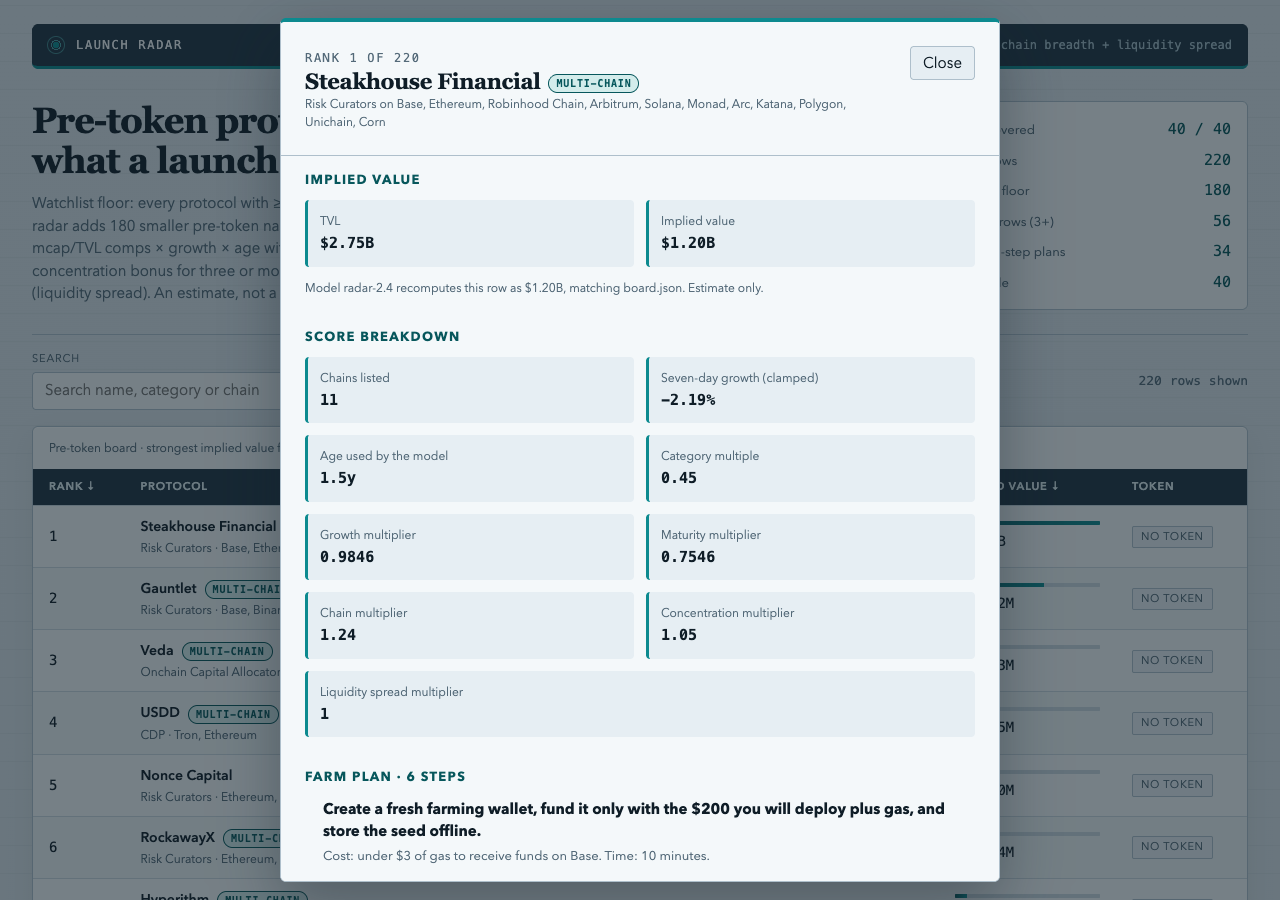
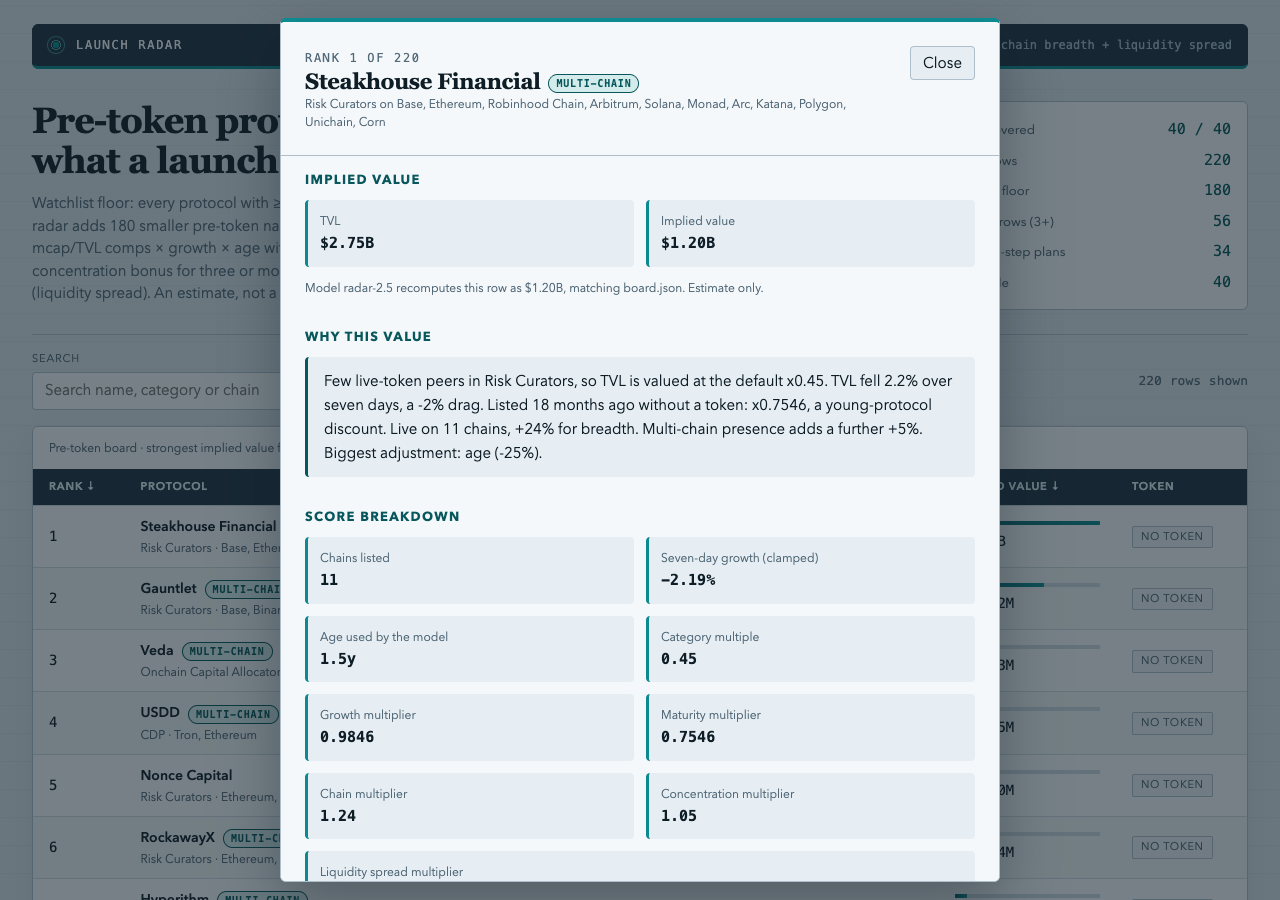
radar-2.5: plain-English score rationales per board row

diff --git a/lib/explain.ts b/lib/explain.ts
@@ -1,0 +1,111 @@
+// Launch Radar rationales (radar-2.5): a scored board row in plain English, from its multipliers only.
+//
+// Every function here is pure (same row in, same text out), takes numbers already on the row, and never
+// recomputes the score: the multipliers come from lib/scoring.ts via the row's `model` block. Each factor
+// helper returns one short sentence, or null when that factor did nothing worth saying. rationale()
+// joins them and names the factor that moved the value most. No network, no clock, no randomness.
+
+import { MODEL } from './scoring.ts';
+
+/** The slice of a board row the explainers read; BoardRow satisfies it structurally. */
+export interface Explainable {
+  category: string | null;
+  chains: string[];
+  change_7d: number | null;
+  age_days: number | null;
+  model: {
+    category_multiple: number;
+    growth_multiplier: number;
+    maturity_multiplier: number;
+    chain_multiplier: number;
+    concentration_multiplier: number;
+    liquidity_spread_multiplier: number;
+  };
+}
+
+/** A multiplier as "x1.05". */
+export const times = (m: number): string => `x${Math.round(m * 1e4) / 1e4}`;
+
+/** How far a multiplier sits from neutral, as a signed percent: 1.05 is "+5%", 0.82 is "-18%". */
+export function shiftPct(m: number): string {
+  const p = Math.round((m - 1) * 100);
+  return `${p > 0 ? '+' : ''}${p}%`;
+}
+
+/** Age in the words a reader uses: "45 days", "14 months", "3.2 years". */
+export function ageWords(days: number): string {
+  if (days >= 730) return `${(days / 365).toFixed(1)} years`;
+  if (days >= 120) return `${Math.round(days / 30)} months`;
+  return `${days} day${days === 1 ? '' : 's'}`;
+}
+
+/** What the category's live-token comps say a dollar of TVL is worth. */
+export function categoryFactor(category: string | null, multiple: number, fallback: number = MODEL.fallback_multiple): string {
+  const label = category ?? 'its category';
+  if (Math.abs(multiple - fallback) < 1e-4) return `Few live-token peers in ${label}, so TVL is valued at the default ${times(multiple)}.`;
+  return `Live ${label} tokens trade at about ${times(multiple)} their TVL, which sets the base value.`;
+}
+
+/** The seven-day TVL change and what it did to the value. */
+export function growthFactor(change7d: number | null, mult: number): string | null {
+  if (change7d === null) return 'No seven-day TVL change on record, so growth is neutral.';
+  const size = `${Math.abs(change7d).toFixed(1)}%`;
+  if (Math.abs(mult - 1) < 0.005) return `TVL is flat over seven days (${change7d.toFixed(1)}%), so growth changes nothing.`;
+  return mult > 1 ? `TVL grew ${size} over seven days, a ${shiftPct(mult)} lift.` : `TVL fell ${size} over seven days, a ${shiftPct(mult)} drag.`;
+}
+
+/** Age without a token: young protocols are discounted, established ones get a premium. */
+export function maturityFactor(ageDays: number | null, mult: number, unknownDays: number = MODEL.unknown_age_days): string {
+  if (ageDays === null) return `Listing date unknown, so it is treated as ${ageWords(unknownDays)} old (${times(mult)}).`;
+  const tone = mult < 1 ? 'a young-protocol discount' : mult > 1 ? 'a premium for staying tokenless this long' : 'neutral';
+  return `Listed ${ageWords(ageDays)} ago without a token: ${times(mult)}, ${tone}.`;
+}
+
+/** Chain breadth: more chains means a wider user base. */
+export function chainFactor(chainCount: number, mult: number): string | null {
+  if (chainCount <= 1) return chainCount === 1 ? 'Single-chain, so no breadth bonus.' : null;
+  return `Live on ${chainCount} chains, ${shiftPct(mult)} for breadth.`;
+}
+
+/** The extra bonus for sitting on enough chains to count as multi-chain. */
+export function concentrationFactor(mult: number): string | null {
+  return mult > 1 ? `Multi-chain presence adds a further ${shiftPct(mult)}.` : null;
+}
+
+/** The small bonus for TVL still growing; silent when it is exactly neutral. */
+export function liquiditySpreadFactor(mult: number): string | null {
+  if (mult <= 1) return null;
+  const capped = Math.abs(mult - (1 + MODEL.liquidity_spread_cap)) < 1e-4;
+  return `Rising TVL signals deepening liquidity: ${shiftPct(mult)}${capped ? ' (the cap)' : ''}.`;
+}
+
+/** The factor that moved the value furthest from neutral, with its direction. Category is the base, so it is not a candidate. */
+export function leadingFactor(row: Explainable): string | null {
+  const m = row.model;
+  const candidates: Array<[string, number]> = [
+    ['growth', m.growth_multiplier],
+    ['age', m.maturity_multiplier],
+    ['chain breadth', m.chain_multiplier],
+    ['multi-chain concentration', m.concentration_multiplier],
+    ['liquidity spread', m.liquidity_spread_multiplier],
+  ];
+  let best: [string, number] | null = null;
+  for (const c of candidates) if (best === null || Math.abs(c[1] - 1) > Math.abs(best[1] - 1)) best = c;
+  if (best === null || Math.abs(best[1] - 1) < 0.005) return null;
+  return `Biggest adjustment: ${best[0]} (${shiftPct(best[1])}).`;
+}
+
+/** The whole rationale: the base value, each factor that did something, then the biggest adjustment. */
+export function rationale(row: Explainable): string {
+  const m = row.model;
+  const parts = [
+    categoryFactor(row.category, m.category_multiple),
+    growthFactor(row.change_7d, m.growth_multiplier),
+    maturityFactor(row.age_days, m.maturity_multiplier),
+    chainFactor(row.chains.length, m.chain_multiplier),
+    concentrationFactor(m.concentration_multiplier),
+    liquiditySpreadFactor(m.liquidity_spread_multiplier),
+    leadingFactor(row),
+  ];
+  return parts.filter((p): p is string => p !== null).join(' ');
+}

diff --git a/tests/explain.test.ts b/tests/explain.test.ts
@@ -1,0 +1,56 @@
+// Run: node --test tests/
+import assert from 'node:assert/strict';
+import { test } from 'node:test';
+import { categoryFactor, chainFactor, growthFactor, leadingFactor, liquiditySpreadFactor, maturityFactor, rationale, shiftPct } from '../lib/explain.ts';
+import type { Explainable } from '../lib/explain.ts';
+
+const row = (over: Partial<Explainable['model']> = {}, rest: Partial<Explainable> = {}): Explainable => ({
+  category: 'Lending',
+  chains: ['Ethereum', 'Base', 'Arbitrum'],
+  change_7d: 30,
+  age_days: 400,
+  model: { category_multiple: 0.8, growth_multiplier: 1.21, maturity_multiplier: 0.9, chain_multiplier: 1.08, concentration_multiplier: 1.05, liquidity_spread_multiplier: 1.045, ...over },
+  ...rest,
+});
+
+test('shiftPct is signed and rounded', () => {
+  assert.equal(shiftPct(1.05), '+5%');
+  assert.equal(shiftPct(0.82), '-18%');
+  assert.equal(shiftPct(1), '0%');
+});
+
+test('categoryFactor says so when only the default applies', () => {
+  assert.match(categoryFactor('DEX', 0.45, 0.45), /Few live-token peers/);
+  assert.match(categoryFactor('DEX', 0.9, 0.45), /about x0\.9 their TVL/);
+});
+
+test('growthFactor handles missing, flat, up and down', () => {
+  assert.match(growthFactor(null, 1)!, /No seven-day/);
+  assert.match(growthFactor(0.1, 1.001)!, /flat/);
+  assert.match(growthFactor(20, 1.14)!, /grew 20\.0%.*\+14% lift/);
+  assert.match(growthFactor(-10, 0.93)!, /fell 10\.0%.*-7% drag/);
+});
+
+test('maturityFactor handles unknown age and the discount', () => {
+  assert.match(maturityFactor(null, 0.8, 270), /unknown.*9 months/);
+  assert.match(maturityFactor(30, 0.6), /30 days.*discount/);
+});
+
+test('chain, concentration and liquidity factors stay quiet when neutral', () => {
+  assert.equal(chainFactor(0, 1), null);
+  assert.match(chainFactor(1, 1)!, /Single-chain/);
+  assert.equal(liquiditySpreadFactor(1), null);
+  assert.match(liquiditySpreadFactor(1.08)!, /\(the cap\)/);
+});
+
+test('leadingFactor picks the biggest move, or nothing when all neutral', () => {
+  assert.match(leadingFactor(row())!, /growth \(\+21%\)/);
+  const flat = row({ growth_multiplier: 1, maturity_multiplier: 1, chain_multiplier: 1, concentration_multiplier: 1, liquidity_spread_multiplier: 1 });
+  assert.equal(leadingFactor(flat), null);
+});
+
+test('rationale is one deterministic, non-empty paragraph', () => {
+  const r = rationale(row());
+  assert.equal(r, rationale(row()));
+  assert.ok(r.length > 80 && r.length < 600 && !r.includes('null') && !r.includes('undefined'));
+});

diff --git a/lib/model.ts b/lib/model.ts
@@ -1,8 +1,9 @@
-// Token radar model radar-2.4, the orchestrator: parse the snapshot, pick the rows, score them with
-// lib/scoring.ts, attach the farm plans from lib/farm.ts, and check the board against the gate.
+// Token radar model radar-2.5, the orchestrator: parse the snapshot, pick the rows, score them with
+// lib/scoring.ts, attach the farm plans (lib/farm.ts) and rationales (lib/explain.ts), and check the board against the gate.
 // The arithmetic lives in scoring.ts and the farm tables in farm.ts; nothing in this file multiplies or
 // words a step. Live-token protocols are never mixed into the ranked board (see scoring.ts).
 
+import { rationale } from './explain.ts';
 import { farmPlan, STEP_MAX_CHARS, STEP_MIN_CHARS, stepText } from './farm.ts';
 import type { FarmKind } from './farm.ts';
 import { MODEL, MODEL_VERSION, categoryMultiples, impliedValue, isPreToken, round4 } from './scoring.ts';
@@ -52,6 +53,8 @@ export interface BoardRow {
   /** Index in farm_steps of the lend/dex-only step, or null. */
   farm_extra: number | null;
   farm_kind: FarmKind | null;
+  /** Plain-English account of the multipliers (lib/explain.ts). */
+  rationale: string;
 }
 
 /** One row of data.js: what the dashboard needs, with the farm plan already worded. */
@@ -76,6 +79,7 @@ export interface RadarRow {
   farm_steps: string[];
   farm_extra: number | null;
   farm_kind: FarmKind | null;
+  rationale: string;
 }
 
 export interface LiveRow {
@@ -136,7 +140,7 @@ export function buildBoard(snapshot: Snapshot, model: ModelConstants = MODEL): B
   scored.sort((a, b) => b.implied - a.implied || cmp(a.p.slug, b.p.slug));
   return scored.map((s, i) => {
     const plan = farmPlan(s.p, s.age);
-    return {
+    const row = {
       rank: i + 1,
       slug: s.p.slug,
       name: s.p.name,
@@ -166,6 +170,7 @@ export function buildBoard(snapshot: Snapshot, model: ModelConstants = MODEL): B
       farm_extra: plan.extra,
       farm_kind: plan.kind,
     };
+    return { ...row, rationale: rationale(row) };
   });
 }
 
@@ -207,6 +212,7 @@ export function radarRow(row: BoardRow): RadarRow {
     farm_steps: row.farm_steps,
     farm_extra: row.farm_extra,
     farm_kind: row.farm_kind,
+    rationale: row.rationale,
   };
 }
 

diff --git a/dashboard/radar-view.js b/dashboard/radar-view.js
@@ -1,4 +1,4 @@
-// Launch Radar view helpers (radar-2.4): formatting, the board and live tables, the model panel and the
+// Launch Radar view helpers (radar-2.5): formatting, the board and live tables, the model panel and the
 // detail dialog. A classic script (no modules, no network): it publishes window.RadarView for app.js.
 // The score arithmetic below recomputes lib/scoring.ts from the constants in data.js, so the detail
 // dialog can show that its number matches board.json. A change to scoring.ts needs the same change here.
@@ -207,6 +207,10 @@
         el('div', null, el('span', { text: 'Implied value' }), el('b', { class: 'num', text: fmtUsd(row.implied_value_usd) }))
       ),
       el('p', { class: 'sub', text: 'Model ' + data.model_version + ' recomputes this row as ' + fmtUsd(recomputed) + (recomputed === row.implied_value_usd ? ', matching board.json.' : ', which differs from the board.') + ' Estimate only.' })
+    ));
+    dialog.appendChild(el('section', { class: 'detail-section' },
+      el('h3', { text: 'Why this value' }),
+      el('p', { class: 'rationale', text: row.rationale || 'No rationale on record for this row.' })
     ));
     dialog.appendChild(el('section', { class: 'detail-section' },
       el('h3', { text: 'Score breakdown' }),

diff --git a/main.ts b/main.ts
@@ -1,5 +1,5 @@
 // token-radar-01 entry (Node 22, standard library only).
-// Model radar-2.4: Launch Radar, implied value from live-token category comps (mcap/TVL medians),
+// Model radar-2.5: Launch Radar, implied value from live-token category comps (mcap/TVL medians),
 // growth, maturity, chain breadth, a small concentration bonus for protocols on 3+ chains and a liquidity
 // spread bonus (up to +8%) for TVL still growing. Farm plans are 6 steps, 7 for lending and DEX protocols.
 //
@@ -60,7 +60,7 @@ const inputFile = inputArg.endsWith('.json') ? inputArg : join(inputArg, 'snapsh
 if (!existsSync(inputFile)) fail(`no snapshot at ${inputFile}: pass --input <snapshot.json|directory> or mount the sealed /input`, 2);
 const out = arg('output', process.env.MAKEFUN_OUTPUT_DIR ?? '/output');
 
-// radar-2.4 scoring: one pass over the snapshot, then the gate check before anything is written.
+// radar-2.5 scoring: one pass over the snapshot, then the gate check before anything is written.
 const snapshot = parseSnapshot(readFileSync(inputFile, 'utf8'));
 const { board, radar } = buildRadar(snapshot);
 const issue = boardIssue(board, snapshot);

diff --git a/dashboard/app.css b/dashboard/app.css
@@ -1,4 +1,4 @@
-/* Launch Radar radar-2.4: cool steel, teal on slate. System fonts only; no network. */
+/* Launch Radar radar-2.5: cool steel, teal on slate. System fonts only; no network. */
 :root {
   --canvas: #cfd9e1;
   --surface: #f4f8fa;
@@ -177,6 +177,8 @@ tbody tr[data-selected="true"] { background: var(--accent-soft); box-shadow: ins
 .steps { margin: 0; padding-left: 1.2em; display: grid; gap: var(--s3); }
 .steps li { display: grid; gap: 4px; }
 .steps .cost { color: var(--muted); font-size: 13px; }
+/* The plain-English rationale (lib/explain.ts) above the numeric breakdown. */
+.rationale { padding: var(--s3) var(--s4); background: var(--panel-alt); border-left: 3px solid var(--accent-deep); border-radius: var(--radius-control); line-height: 1.6; }
 /* An odd last breakdown cell (the liquidity spread multiplier) spans the row instead of dangling. */
 .equation > div:last-child:nth-child(odd) { grid-column: 1 / -1; }
 /* The lend/DEX-only farm step: accent rail and a tag naming the upkeep it adds. */

diff --git a/dashboard/index.html b/dashboard/index.html
@@ -3,7 +3,7 @@
 <head>
 <meta charset="utf-8">
 <meta name="viewport" content="width=device-width, initial-scale=1">
-<title>radar-2.4 Launch Radar: pre-token protocols ranked by implied launch value, filter by category and chain</title>
+<title>radar-2.5 Launch Radar: pre-token protocols ranked by implied launch value, filter by category and chain</title>
 <link rel="stylesheet" href="app.css">
 </head>
 <body>

diff --git a/dashboard/app.js b/dashboard/app.js
@@ -1,4 +1,4 @@
-// Launch Radar bootloader (radar-2.4): state, filters, URL hash and the page shell.
+// Launch Radar bootloader (radar-2.5): state, filters, URL hash and the page shell.
 // Needs window.RADAR (../data.js) and window.RadarView (radar-view.js), both loaded first. No network.
 (function () {
   'use strict';

diff --git a/lib/scoring.ts b/lib/scoring.ts
@@ -56,7 +56,7 @@ export interface ModelConstants {
   base_multiple: number;
 }
 
-export const MODEL_VERSION = 'radar-2.4';
+export const MODEL_VERSION = 'radar-2.5'; // same arithmetic as 2.4; 2.5 adds the rationale text
 
 export const MODEL: ModelConstants = {
   fallback_multiple: 0.45,

diff --git a/README.md b/README.md
@@ -4,7 +4,7 @@
 [![rank](https://make.fun/badge/token-radar-01/ncalamsyah/token-radar-01/rank.svg)](https://make.fun/bounty/token-radar-01/leaderboard?utm_source=github&utm_medium=readme&utm_campaign=token-radar-01)
 [![reward](https://make.fun/badge/token-radar-01/ncalamsyah/token-radar-01/reward.svg)](https://make.fun/bounty/token-radar-01?utm_source=github&utm_medium=readme&utm_campaign=token-radar-01)
 
-Launch Radar (model radar-2.3) ranks pre-token DefiLlama protocols by an implied launch value computed from sealed snapshot figures: live-token category mcap/TVL comps, 7d growth, age without a token, chain breadth, and a small 5% concentration bonus for protocols on three or more chains. One `scoreBreakdown()` function returns every multiplier, and the dashboard's detail dialog lists that score breakdown (category, growth, maturity, chain and concentration multipliers) so you can see what drove each rank. Protocols on three or more chains carry a "multi-chain" badge, and the static farm-plan dashboard adds a chain filter and a chain-count sort.
+Launch Radar (model radar-2.5) ranks pre-token DefiLlama protocols by an implied launch value computed from sealed snapshot figures: live-token category mcap/TVL comps, 7d growth, age without a token, chain breadth, and a small 5% concentration bonus for protocols on three or more chains. One `scoreBreakdown()` function returns every multiplier, and the dashboard's detail dialog lists that score breakdown (category, growth, maturity, chain and concentration multipliers) so you can see what drove each rank. Protocols on three or more chains carry a "multi-chain" badge, and the static farm-plan dashboard adds a chain filter and a chain-count sort.
 
 ## Run it
 
